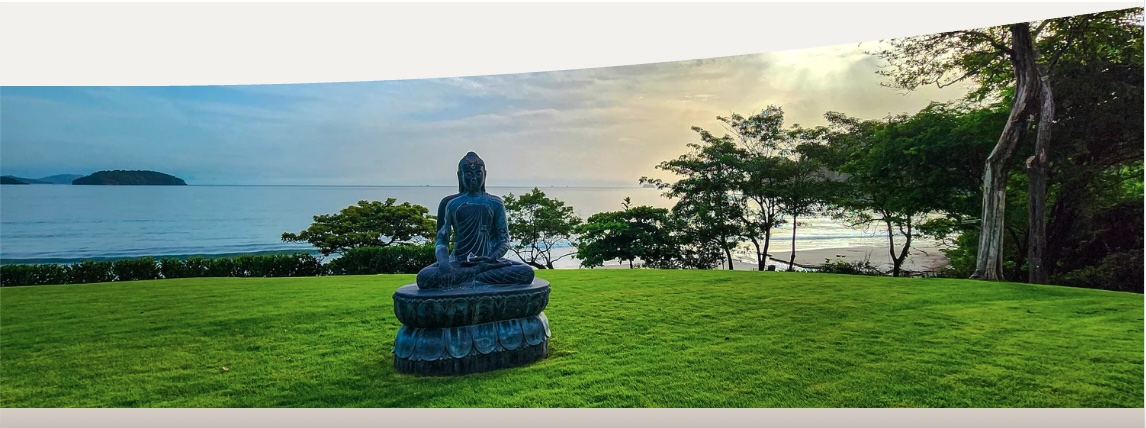
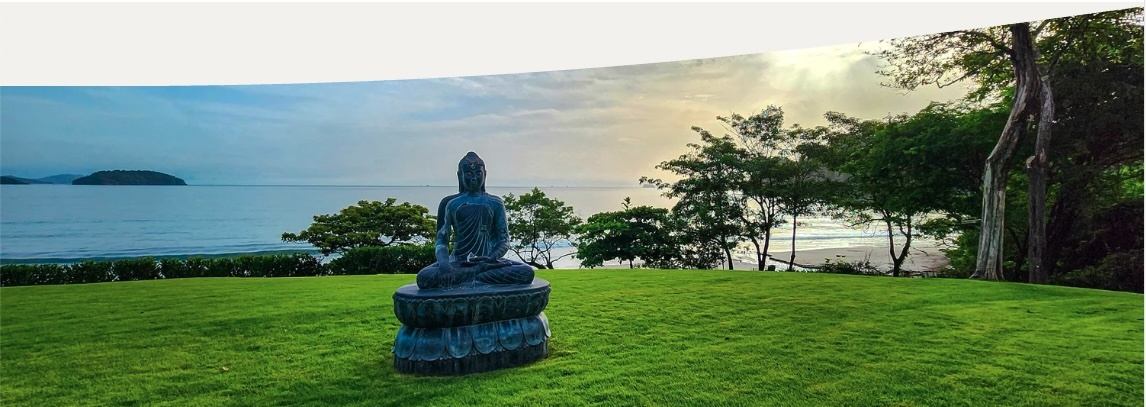
fix: crop gray band from bottom of hero image
The reunion2.jpg panoramic had a 20px gray artifact baked into
its bottom edge. With bg-cover, this was always visible as a
gray line between the hero and video sections. Cropped the
bottom 21px and reverted all prior CSS workaround attempts.

diff --git a/src/pages/April2026Page.tsx b/src/pages/April2026Page.tsx
@@ -86,12 +86,10 @@ export function April2026Page() {
         <ChevronUp className="w-6 h-6" />
       </button>
 
-      {/* Hero + Video wrapper — shared background eliminates section seam */}
-      <div className="bg-[#1a4a4a]">
       {/* Hero Section */}
       <section className="relative min-h-[70vh] flex items-center justify-center overflow-hidden">
         <div className="absolute inset-0 bg-cover bg-center" style={{backgroundImage: 'url(/reunion2.jpg)'}}>
-          <div className="absolute inset-0 bg-black/25"></div>
+          <div className="absolute inset-0 bg-gradient-to-b from-black/25 to-black/60"></div>
         </div>
         <div className="relative z-10 text-center px-6 max-w-4xl mx-auto pt-14 pb-28 md:pt-0 md:pb-0">
           <p className="text-white text-sm sm:text-xl md:text-3xl lg:text-4xl uppercase tracking-[0.08em] sm:tracking-[0.12em] md:tracking-[0.2em] mb-4 font-bold">Reunion Wellness Resort & Retreats</p>
@@ -137,7 +135,6 @@ export function April2026Page() {
           </div>
         </div>
       </section>
-      </div>{/* end Hero + Video wrapper */}
 
       {/* Explore More — Media & Resources */}
       <section id="explore" className="py-16 px-6 bg-white">
